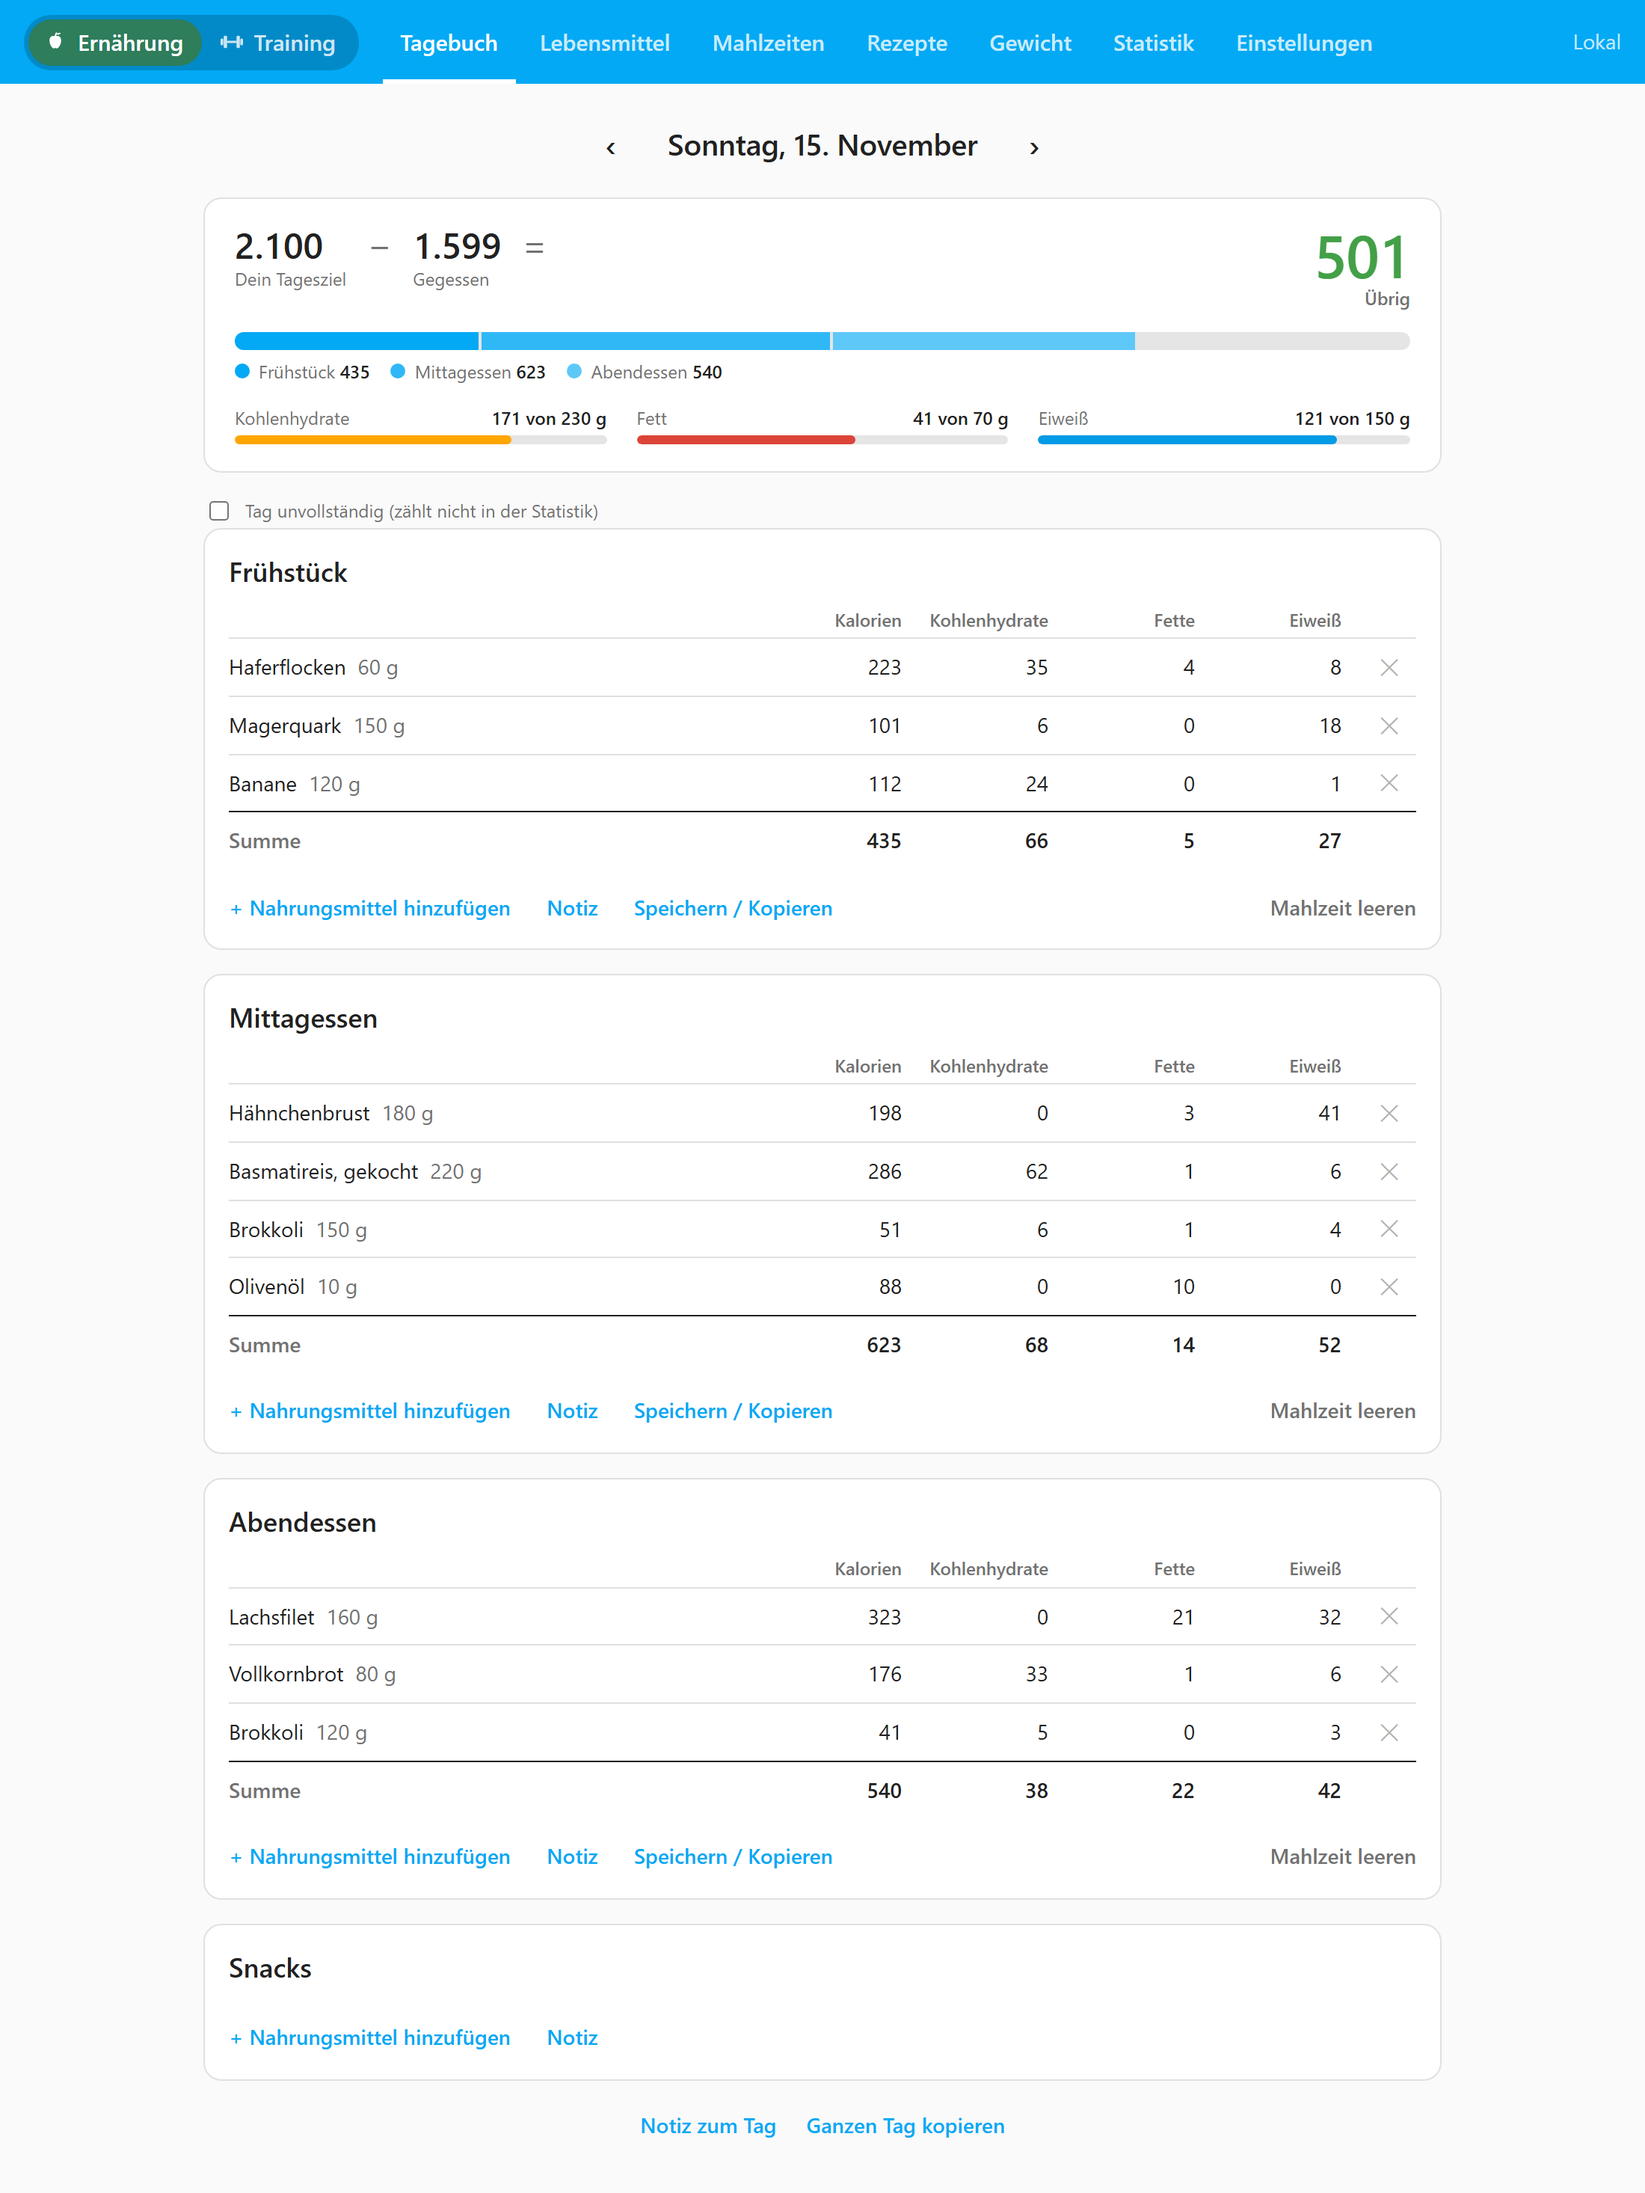
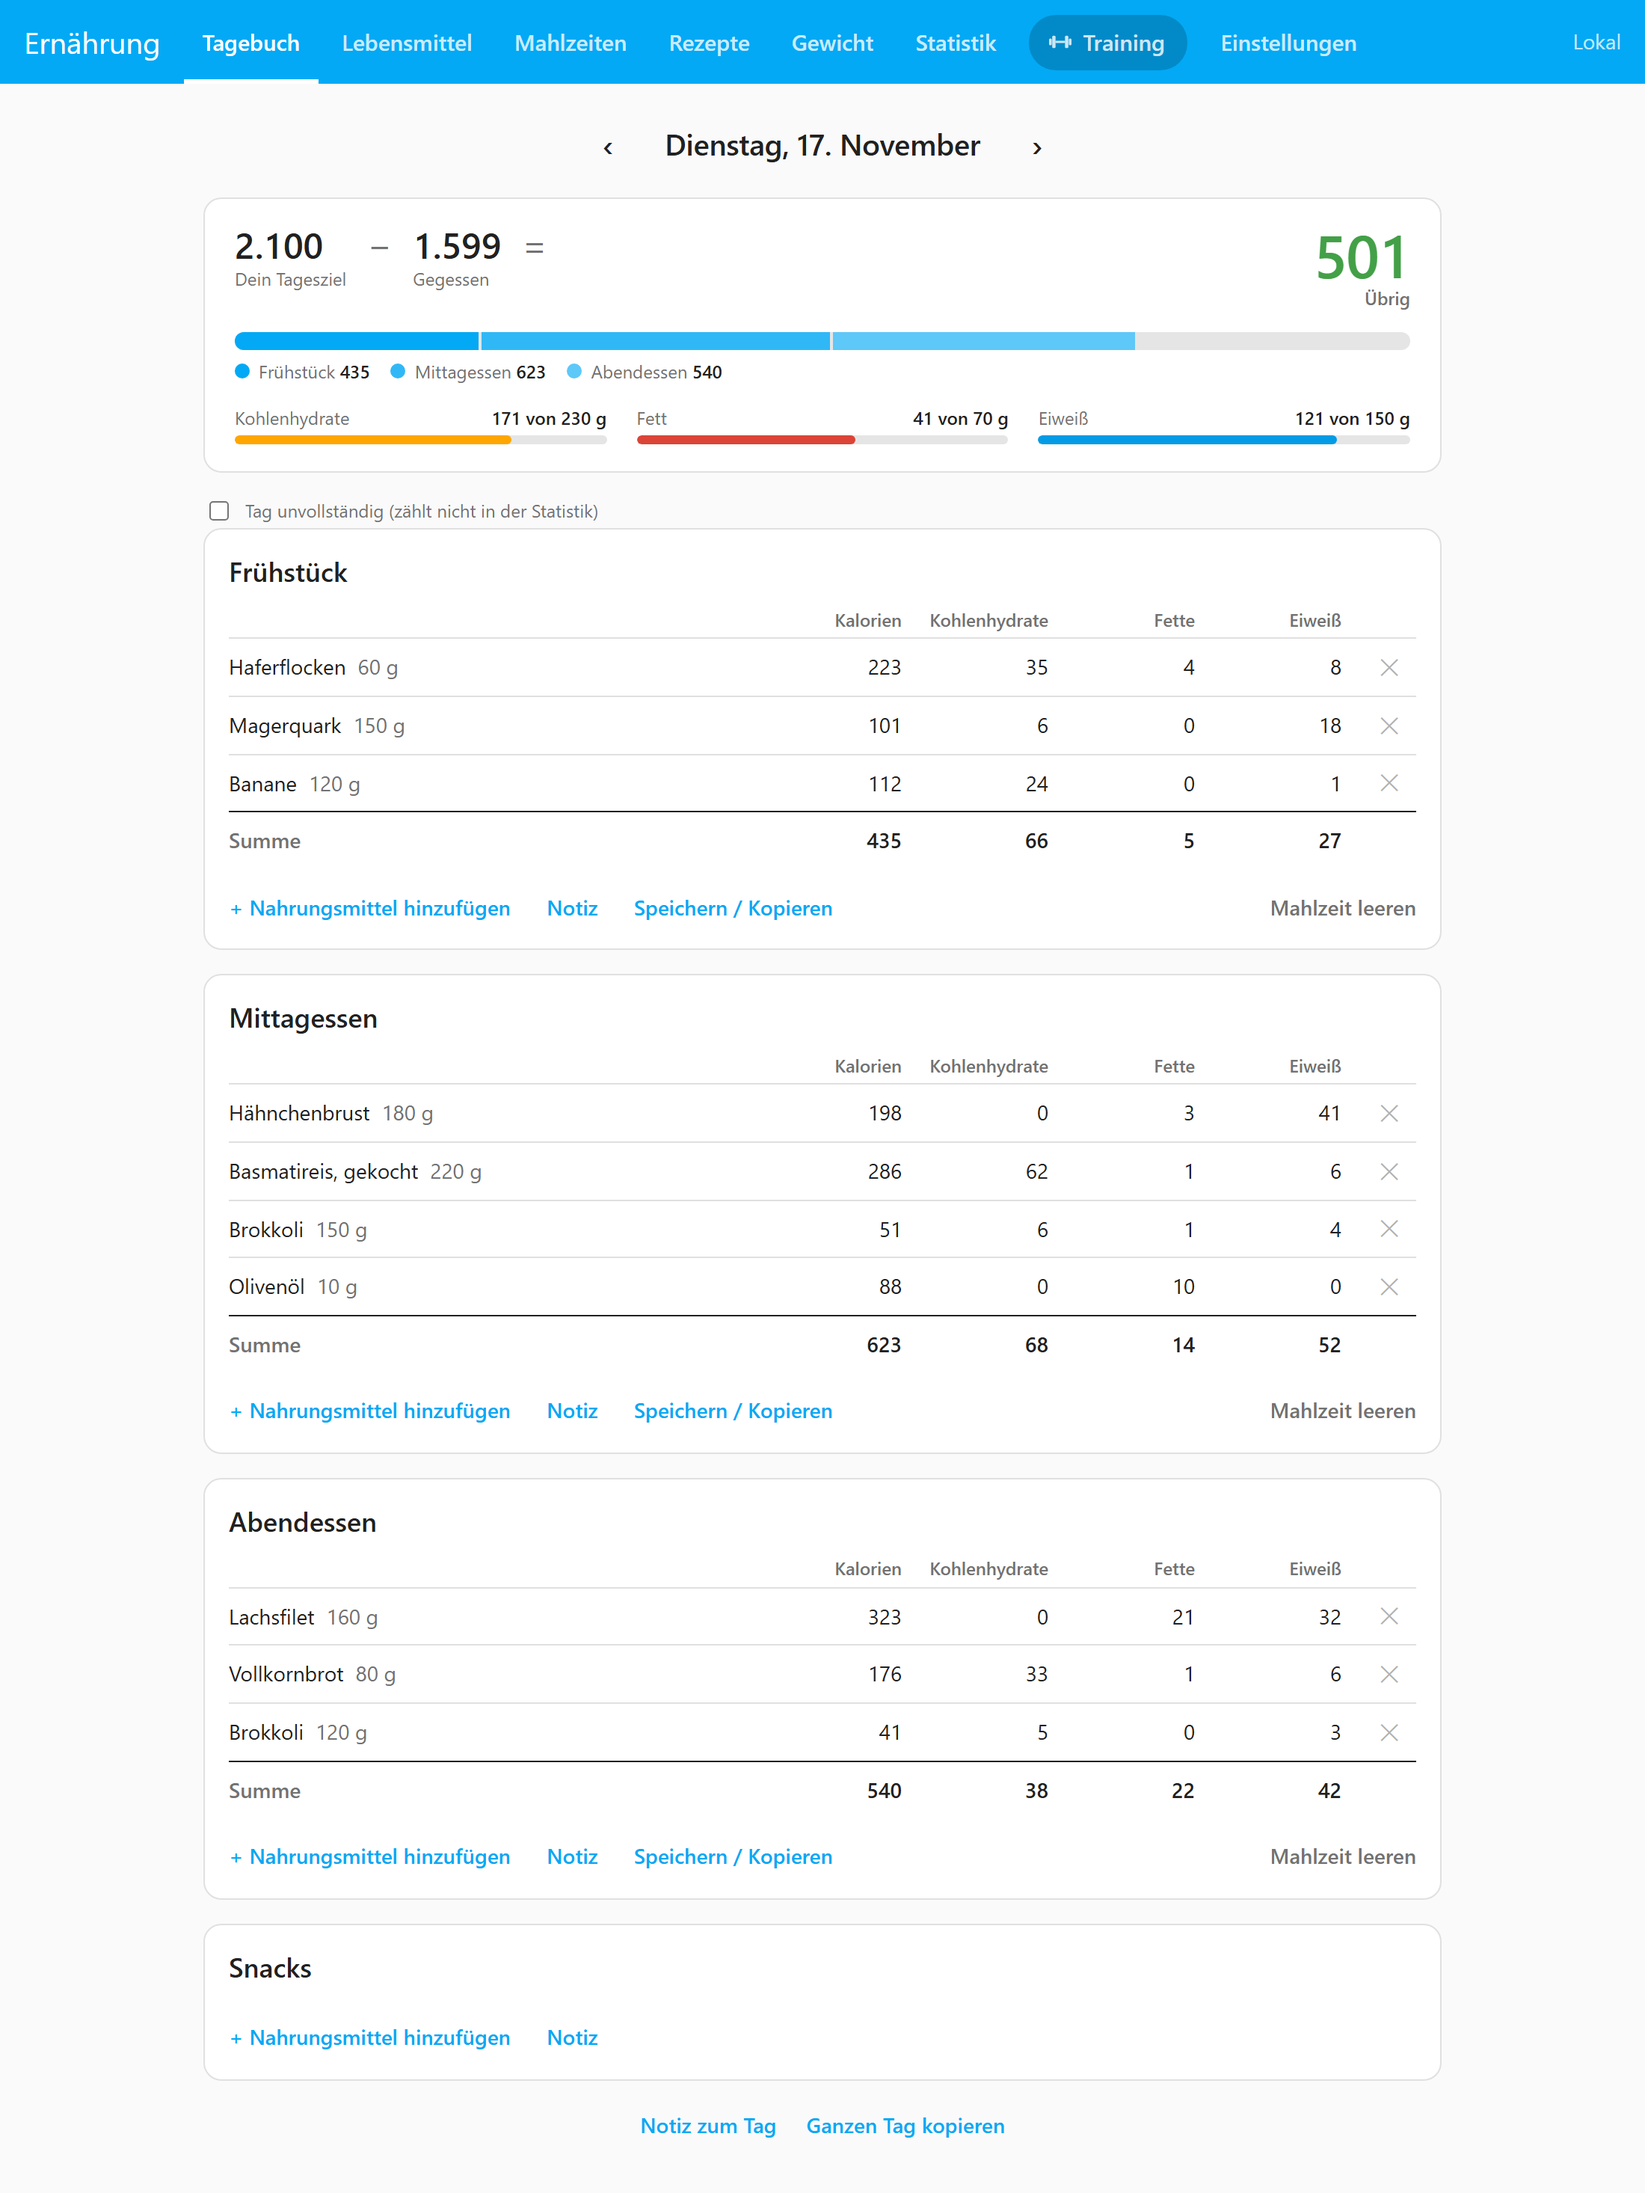
README: current screenshots (phone picture in the HAFS app look), HAFS app instead of the old Android repo

diff --git a/docs/make_screenshots.py b/docs/make_screenshots.py
@@ -8,6 +8,13 @@ from playwright.sync_api import sync_playwright
 
 ROOT = os.path.dirname(os.path.dirname(os.path.abspath(__file__)))
 OUT = os.path.join(ROOT, "docs", "screenshots")
+# The HAFS app's light colours as app/lib/nutrition_theme.dart sends them (Material 3 scheme from #03A9F4, fidelity)
+APP_LIGHT = {"--primary-color": "#006493", "--text-primary-color": "#FFFFFF", "--accent-color": "#8A5100",
+             "--primary-background-color": "#F6F9FF", "--secondary-background-color": "#DEE3E9",
+             "--card-background-color": "#F0F4FA", "--primary-text-color": "#171C21", "--secondary-text-color": "#3E4851",
+             "--disabled-text-color": "#6E7882", "--divider-color": "#BEC8D2", "--error-color": "#BA1A1A",
+             "--input-fill-color": "#DEE3E9", "--hafs-nav-bg": "#EAEEF5", "--hafs-nav-indicator": "#B4DCFD",
+             "--hafs-nav-on-indicator": "#3A617E"}
 
 T = {
     "de": dict(meals=["Frühstück", "Mittagessen", "Abendessen", "Snacks"],
@@ -160,10 +167,13 @@ def main():
                     pg.screenshot(path=os.path.join(out, f"{name}.png"), full_page=True)
                 pg.click('#area button[data-area="nutrition"]')
                 ctx.close()
+                # the phone picture shows nutrition as the HAFS app shows it: app shell (bridge present), app colours
                 m = browser.new_context(viewport={"width": 390, "height": 844}, device_scale_factor=3, color_scheme="light", locale=lang, is_mobile=True, has_touch=True)
+                m.add_init_script("window.HAFSBridge = { postMessage: () => {} };")
                 mp = m.new_page()
                 mp.goto(base + "/")
                 mp.wait_for_selector("#diary .daynav")
+                mp.evaluate("v => window.hafsAppTheme(v, false)", APP_LIGHT)
                 time.sleep(0.8)
                 mp.screenshot(path=os.path.join(out, "diary-mobile.png"))
                 m.close()

diff --git a/README.md b/README.md
@@ -11,7 +11,7 @@
 
 HAFS hieß bis Version 1.x **MyDietAssistant**; Training war eine eigene Integration. Beides ist jetzt eine App mit dem Umschalter **Ernährung | Training**.
 
-[![Öffne Deine Home-Assistant-Instanz und füge dieses App-Repository hinzu.](https://my.home-assistant.io/badges/supervisor_add_addon_repository.svg)](https://my.home-assistant.io/redirect/supervisor_add_addon_repository/?repository_url=https%3A%2F%2Fgithub.com%2FSchumey%2FMyDietAssistant)
+[![Öffne Deine Home-Assistant-Instanz und füge dieses App-Repository hinzu.](https://my.home-assistant.io/badges/supervisor_add_addon_repository.svg)](https://my.home-assistant.io/redirect/supervisor_add_addon_repository/?repository_url=https%3A%2F%2Fgithub.com%2FSchumey%2FHAFS)
 
 <p align="center"><img src="docs/screenshots/de/diary.png" alt="Tagebuch mit Mahlzeiten, Einträgen und Tagesziel" width="640"></p>
 
@@ -80,7 +80,7 @@ Updates erscheinen unter **Einstellungen → Updates**. Ausführlich: [Installat
 
 ## Android-App
 
-<p align="center"><img src="docs/screenshots/de/diary-mobile.png" alt="Tagebuch auf dem Handy" width="260"></p>
+<p align="center"><img src="docs/screenshots/de/diary-mobile.png" alt="Ernährung in der HAFS-App: Tagebuch mit Reitern unten" width="260"></p>
 
 Die Weboberfläche läuft auch in der Companion-App. Die HAFS-App bietet zusätzlich:
 
@@ -120,10 +120,11 @@ Danach `http://localhost:8099/` öffnen. Ohne Home Assistant gibt es keine Senso
 | Ordner | Inhalt |
 |---|---|
 | `mydiet/` | die App für Home Assistant: `app/main.py` (Kern-API), `app/extras*.py` (je ein Funktionsbereich), `app/db.py` (Schema und Migrationen), `app/static/` (Oberfläche ohne Build-Schritt) |
+| `app/` | die HAFS-App fürs Handy (Flutter): Training nativ und offline, Ernährung als Weboberfläche im App-Look |
 | `docs/` | Anleitungen (de/en) und Screenshots |
 | `tests/` | pytest-Suite, `tests/e2e` mit Playwright |
 
-Die Android-App liegt in einem eigenen Repository: [Schumey/MyDietAssistant-Android](https://github.com/Schumey/MyDietAssistant-Android). Fertige Container-Images für die HA-App beschreibt [Installation → Fertige Images](docs/de/installation.md#fertige-images-für-entwickler).
+Die HAFS-App fürs Handy (Flutter) liegt unter `app/`, ihre APK steht unter [Releases](https://github.com/Schumey/HAFS/releases) (Versionen `app-v…`). Fertige Container-Images für die HA-App beschreibt [Installation → Fertige Images](docs/de/installation.md#fertige-images-für-entwickler).
 
 ## Lizenz
 

diff --git a/README.en.md b/README.en.md
@@ -11,7 +11,7 @@
 
 Up to version 1.x HAFS was called **MyDietAssistant**; training was an integration of its own. Both are now one app with the switch **Nutrition | Training**.
 
-[![Open your Home Assistant instance and add this app repository.](https://my.home-assistant.io/badges/supervisor_add_addon_repository.svg)](https://my.home-assistant.io/redirect/supervisor_add_addon_repository/?repository_url=https%3A%2F%2Fgithub.com%2FSchumey%2FMyDietAssistant)
+[![Open your Home Assistant instance and add this app repository.](https://my.home-assistant.io/badges/supervisor_add_addon_repository.svg)](https://my.home-assistant.io/redirect/supervisor_add_addon_repository/?repository_url=https%3A%2F%2Fgithub.com%2FSchumey%2FHAFS)
 
 <p align="center"><img src="docs/screenshots/en/diary.png" alt="Diary with meals, entries and daily goal" width="640"></p>
 
@@ -80,7 +80,7 @@ Updates show up under **Settings → Updates**. In detail: [Installation](docs/e
 
 ## Android app
 
-<p align="center"><img src="docs/screenshots/en/diary-mobile.png" alt="Diary on a phone" width="260"></p>
+<p align="center"><img src="docs/screenshots/en/diary-mobile.png" alt="Nutrition in the HAFS app: diary with tabs at the bottom" width="260"></p>
 
 The web interface also runs in the Companion app. The HAFS app adds:
 
@@ -120,10 +120,11 @@ Then open `http://localhost:8099/`. Without Home Assistant there are no sensors,
 | Folder | Content |
 |---|---|
 | `mydiet/` | the Home Assistant app: `app/main.py` (core API), `app/extras*.py` (one feature area each), `app/db.py` (schema and migrations), `app/static/` (interface without a build step) |
+| `app/` | the HAFS phone app (Flutter): training native and offline, nutrition as the web interface in the app's look |
 | `docs/` | guides (de/en) and screenshots |
 | `tests/` | pytest suite, `tests/e2e` with Playwright |
 
-The Android app lives in its own repository: [Schumey/MyDietAssistant-Android](https://github.com/Schumey/MyDietAssistant-Android). Prebuilt container images for the HA app are described under [Installation → Prebuilt images](docs/en/installation.md#prebuilt-images-for-developers).
+The HAFS phone app (Flutter) lives in `app/`, its APK is on [Releases](https://github.com/Schumey/HAFS/releases) (versions `app-v…`). Prebuilt container images for the HA app are described under [Installation → Prebuilt images](docs/en/installation.md#prebuilt-images-for-developers).
 
 ## License
 

diff --git a/roadmap.md b/roadmap.md
@@ -14,10 +14,9 @@ Aufwand: **S** = Stunden, **M** = ein bis zwei Abende, **L** = größeres Vorhab
 
 ## Plattformen
 
-Seit 2.0 ist die App fürs Handy die HAFS-App (Flutter, `app/`); die frühere Kotlin-App [MyDietAssistant-Android](https://github.com/Schumey/MyDietAssistant-Android) wird abgelöst.
+Seit 2.0 ist die App fürs Handy die HAFS-App (Flutter, `app/`); die frühere Kotlin-App ist abgelöst (sie zeigt über die Weboberfläche den Hinweis auf die neue App, ihr Repo ist privat).
 
 - **HAFS-App: offene Prüfungen** (S): am echten HA und Handy prüfen: Ingress-Sitzung mit Token (auch ohne Admin-Rechte), Cookie und Sitzungserneuerung in der WebView, Barcode-Scan mit dem System-Scanner, Health Connect mit echten Daten, Datei-Upload, beide Widgets, Update aus `/share/hafs/app`, Verhalten ohne Play-Dienste.
-- **Kotlin-App: Hinweis „Neue App verfügbar“** (S): letzte Version im Repo `MyDietAssistant-Android`, die auf die HAFS-App verweist.
 - **Widget „Ernährung heute“ im Hintergrund aktualisieren** (M): es aktualisiert sich nur, wenn die App das Tagebuch zeigt; ein Abruf im Hintergrund (WorkManager) mit eigener Ingress-Sitzung. Ebenso Health Connect im Hintergrund übernehmen.
 - **App-Releases über GitHub** (S): Workflow, der bei `app-v*`-Tags die APK baut und signiert (Schlüssel als Secret), sobald das Repo öffentlich ist.
 - **Ernährung nativ in der App** (L): Tagesübersicht, Eintragen, Gewicht ohne WebView, offline mit `client_id` gegen Doppelbuchungen.

diff --git a/mydiet/CHANGELOG.md b/mydiet/CHANGELOG.md
@@ -140,7 +140,7 @@ MyDietAssistant heißt jetzt **HAFS** (HomeAssistant Fitness Suite) und bringt d
 ## 1.30.0
 
 ### Neu
-- **Android-App in eigenem Repository:** [MyDietAssistant-Android](https://github.com/Schumey/MyDietAssistant-Android) (Verlauf übernommen); der Ordner `android/` ist hier entfernt. Die App sucht ab Version 0.4.0 selbst nach Updates.
+- **Android-App in eigenem Repository:** `MyDietAssistant-Android` (Verlauf übernommen); der Ordner `android/` ist hier entfernt. Die App sucht ab Version 0.4.0 selbst nach Updates.
 - *Einstellungen → Android-App* zeigt die installierte App-Version und den Knopf **Nach App-Updates suchen** (ab App 0.4.0). Die Karte erscheint jetzt für jede App-Version; die Health-Connect-Teile nur, wenn die App sie kann.
 
 ## 1.29.0

diff --git a/mydiet/CHANGELOG.en.md b/mydiet/CHANGELOG.en.md
@@ -140,7 +140,7 @@ MyDietAssistant is now called **HAFS** (HomeAssistant Fitness Suite) and brings 
 ## 1.30.0
 
 ### New
-- **Android app in its own repository:** [MyDietAssistant-Android](https://github.com/Schumey/MyDietAssistant-Android) (history kept); the `android/` folder is removed here. From version 0.4.0 the app looks for updates itself.
+- **Android app in its own repository:** `MyDietAssistant-Android` (history kept); the `android/` folder is removed here. From version 0.4.0 the app looks for updates itself.
 - *Settings → Android app* shows the installed app version and the button **Look for app updates** (from app 0.4.0). The card now appears for every app version; the Health Connect parts only when the app supports them.
 
 ## 1.29.0
